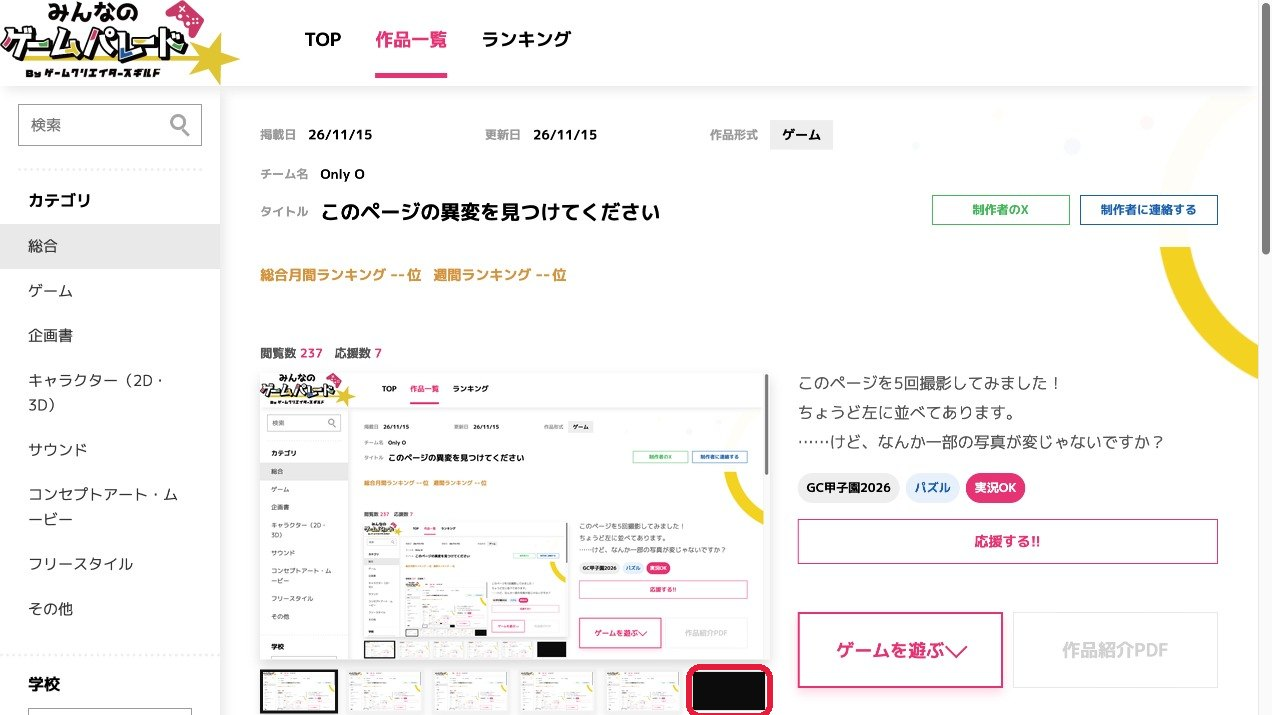
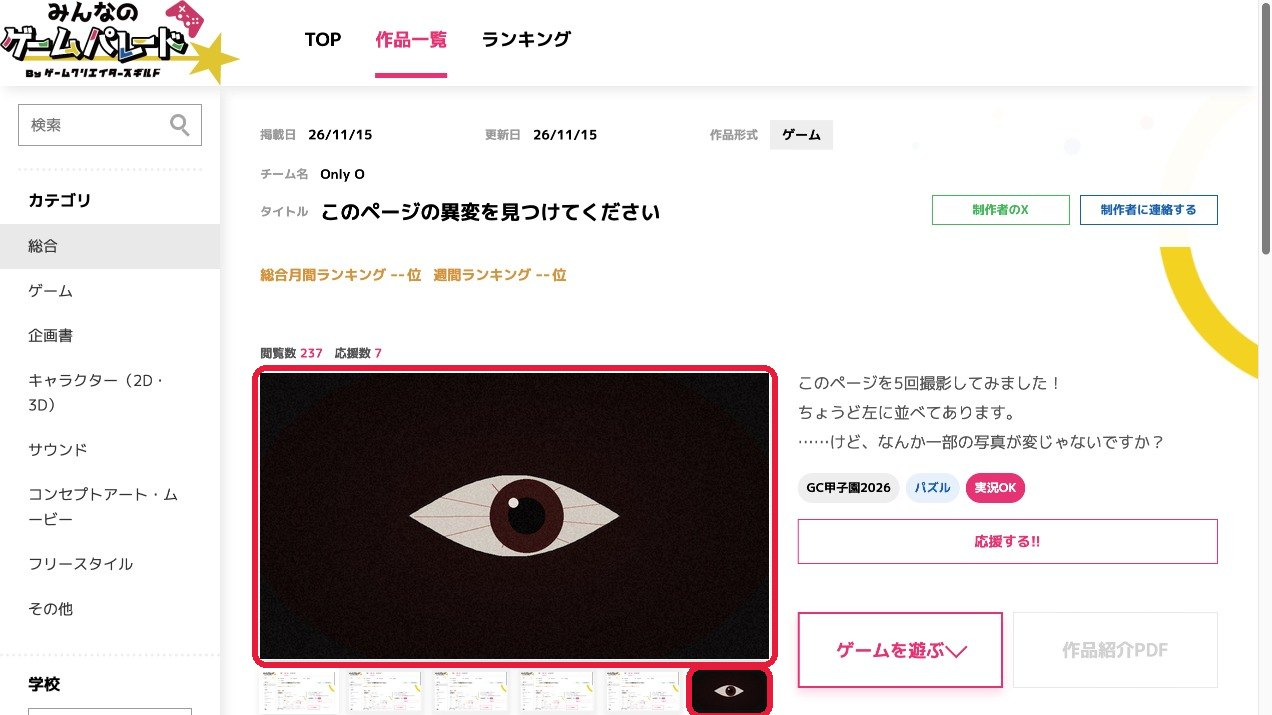
4枚目の異変を、6枚目が現れて暗闇で目が開く演出に変更

Changed region(s): [[0.184, 0.4923, 0.6132, 1.0], [0.184, 0.9846, 0.2759, 1.0]]

diff --git a/index.html b/index.html
@@ -160,7 +160,7 @@
     { anomaly: true,  text: "しばらく見ていると、画像の中のページが回転しながら奥へ沈んでいきます。" },
     { anomaly: false, text: "異変はありません。どれだけ待っても、何も起きません。" },
     { anomaly: true,  text: "ときどき、右の黄色い弧と背景の点が目に変わり、こちらを見てまばたきします。" },
-    { anomaly: true,  text: "しばらくすると、サムネイルが6枚に増えます。このサイトには、画像を5枚までしか載せられません。" },
+    { anomaly: true,  text: "しばらくすると、6枚目のサムネイルが現れます（このサイトには画像を5枚までしか載せられません）。そして誰も押していないのに6枚目が開き、暗闇の中で目が開きます。" },
     { anomaly: true,  text: "しばらくすると、写真の中で選ばれているサムネイルが、ひとりでに1枚目から3枚目へ移ります。誰も押していないのに。" },
   ];
   const MESSAGES = {
